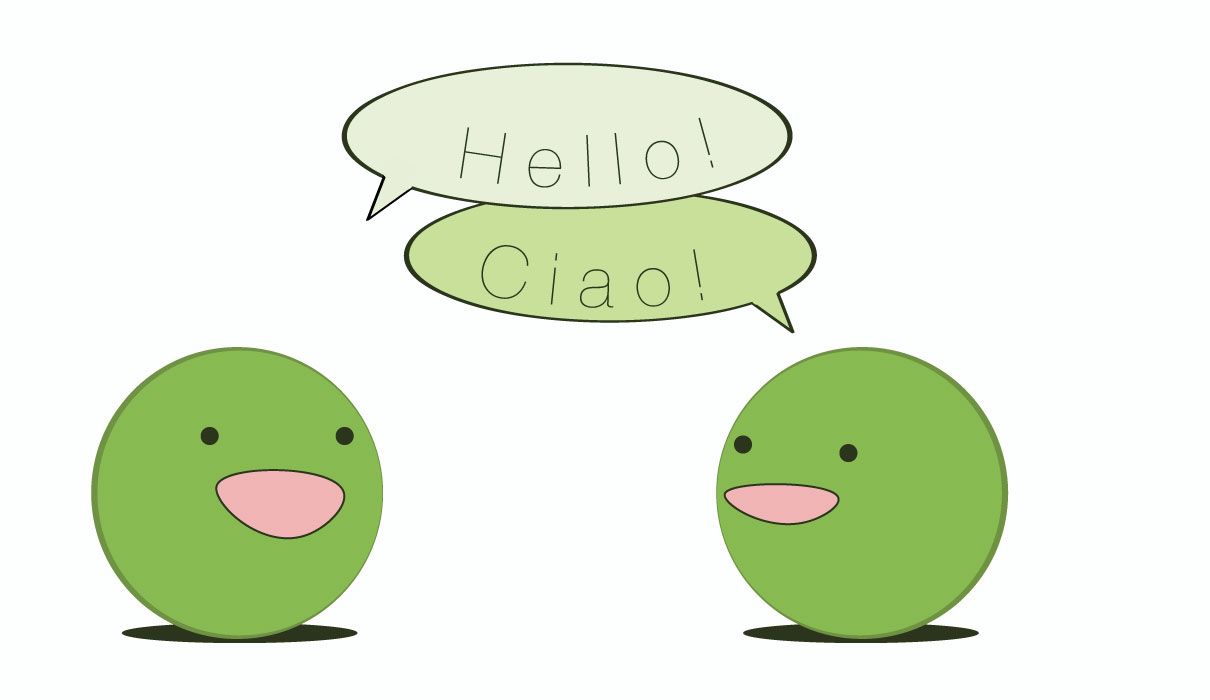
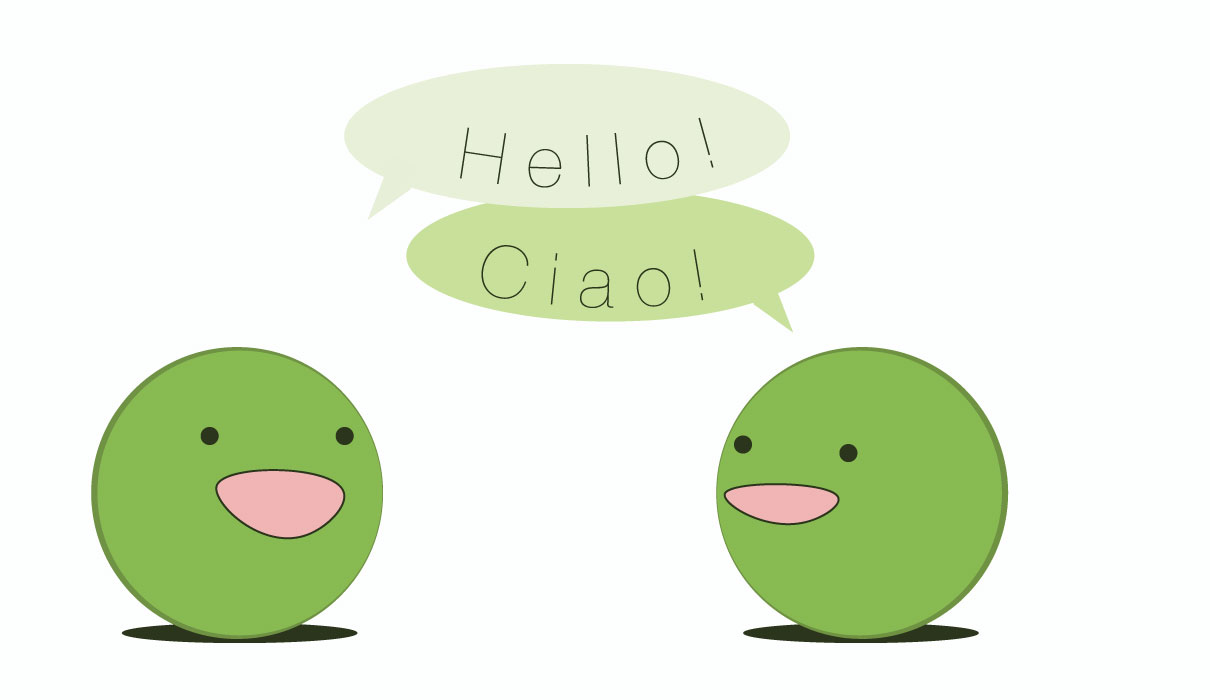
some styling
-removed balloon outline in descr-pic to fit style
-changed style of headers
-If no matched users, displays message and no table
-table column text aligned with list of languages below

diff --git a/static/css/myapp.css b/static/css/myapp.css
@@ -1,3 +1,4 @@
+@@ -0,0 +1,245 @@
 a, a:active {
     color: #88b851;
 }
@@ -26,7 +27,7 @@ div.headers {
     background-color:#88b851;
     height:125px;
     width:100%;
-    border-radius:100px 100px 100px 100px;
+    border-radius:500px 500px 50px 50px;
 }
 
 hr.thin_line{
@@ -103,7 +104,7 @@ ul{
 table.match_table {
     border-collapse: separate
     border-spacing: 0;
-    border-radius: 20px;
+    border-radius:20px
     padding: 20px;
     width:60%;
 }
@@ -120,17 +121,15 @@ table.match_table {
 tr:first-child td:nth-child(2){
     border-left: none;
     border-right: none;
+    text-indent:-2em;
 }
 
 #match_col {
-    font-size: 1.2em;
     color:#FBFEFD;
-    height:45px;
+    height:55px;
     background-color:#88b851;
     border: none;
-    margin-left: 10px;
-    margin-right: 10px;
-    padding: 15px 20px;
+    font-size:1.6em;
 }
 
 #match_row {

diff --git a/views/default/home.html b/views/default/home.html
@@ -1,12 +1,15 @@
 {{extend 'layout.html'}}
 <div class="headers">
-   <h1>HomeDash</h1>
+   <h1>Matched Users</h1>
 </div>
-        <h3>Welcome {{=auth.user.first_name}}</h3>
+        <h3>Welcome, {{=auth.user.first_name}}!</h3>
 <hr class="thin_line">
 
 <div id="match_users">
     <h3>Matched Users:</h3>
+    {{if len(matches) == 0 :}}
+    <p> No matches found... :(</p>
+    {{else:}}
     <table class="match_table" align="center">
         <!-- Title row for the table -->
         <tr id="match_col">
@@ -57,6 +60,7 @@
         </tr>
         {{pass}}
     </table>
+    {{pass}}
 </div>
 
 
